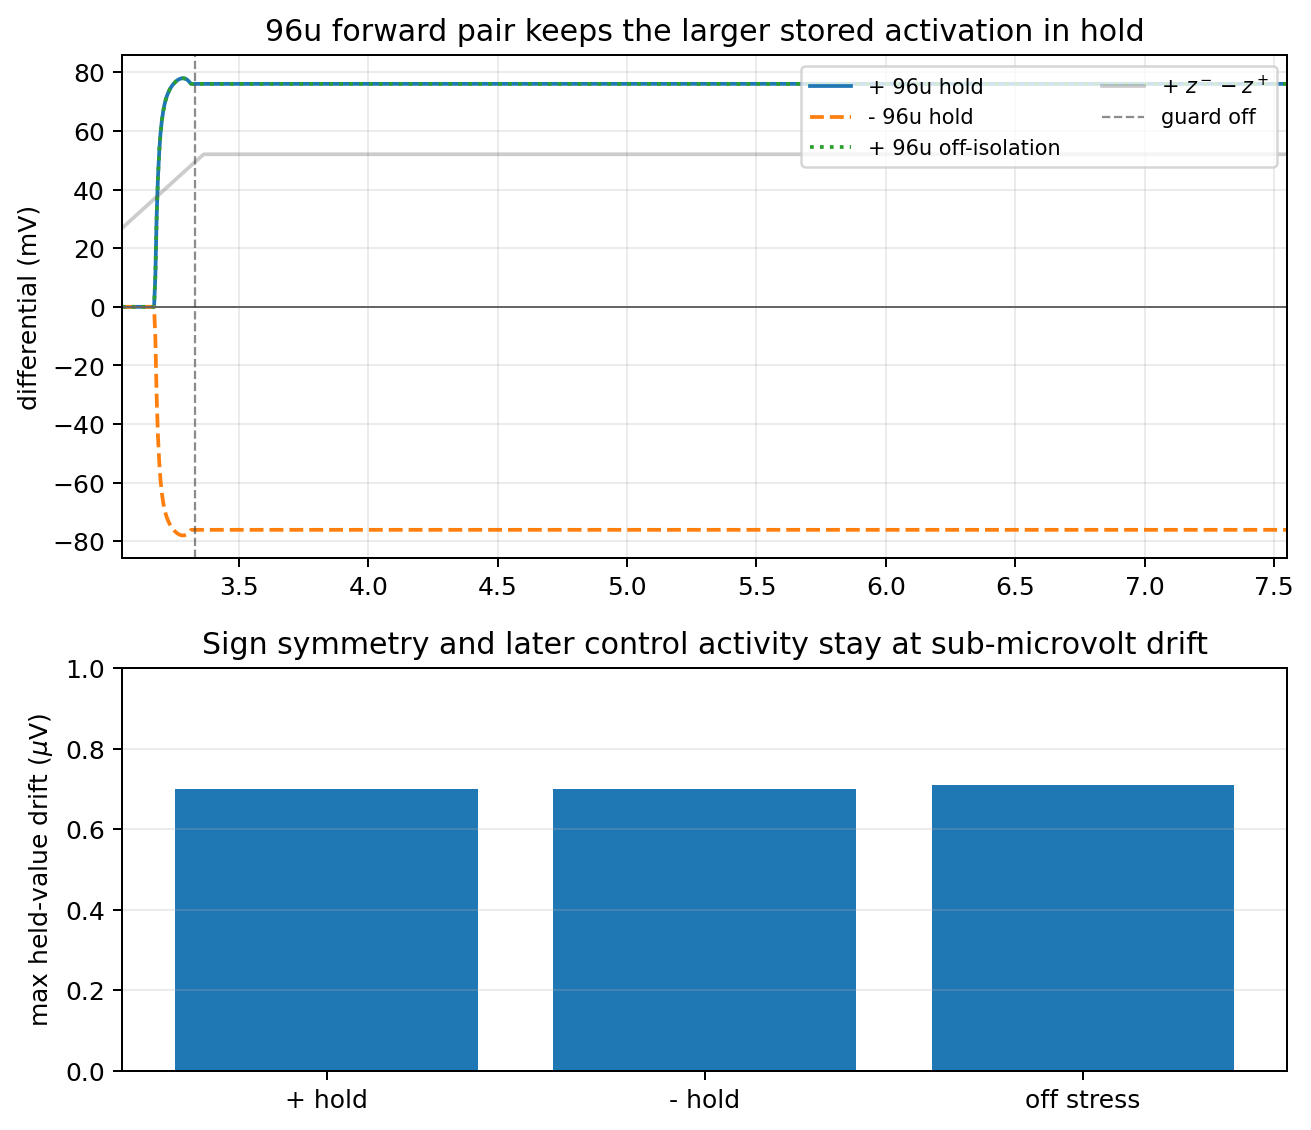
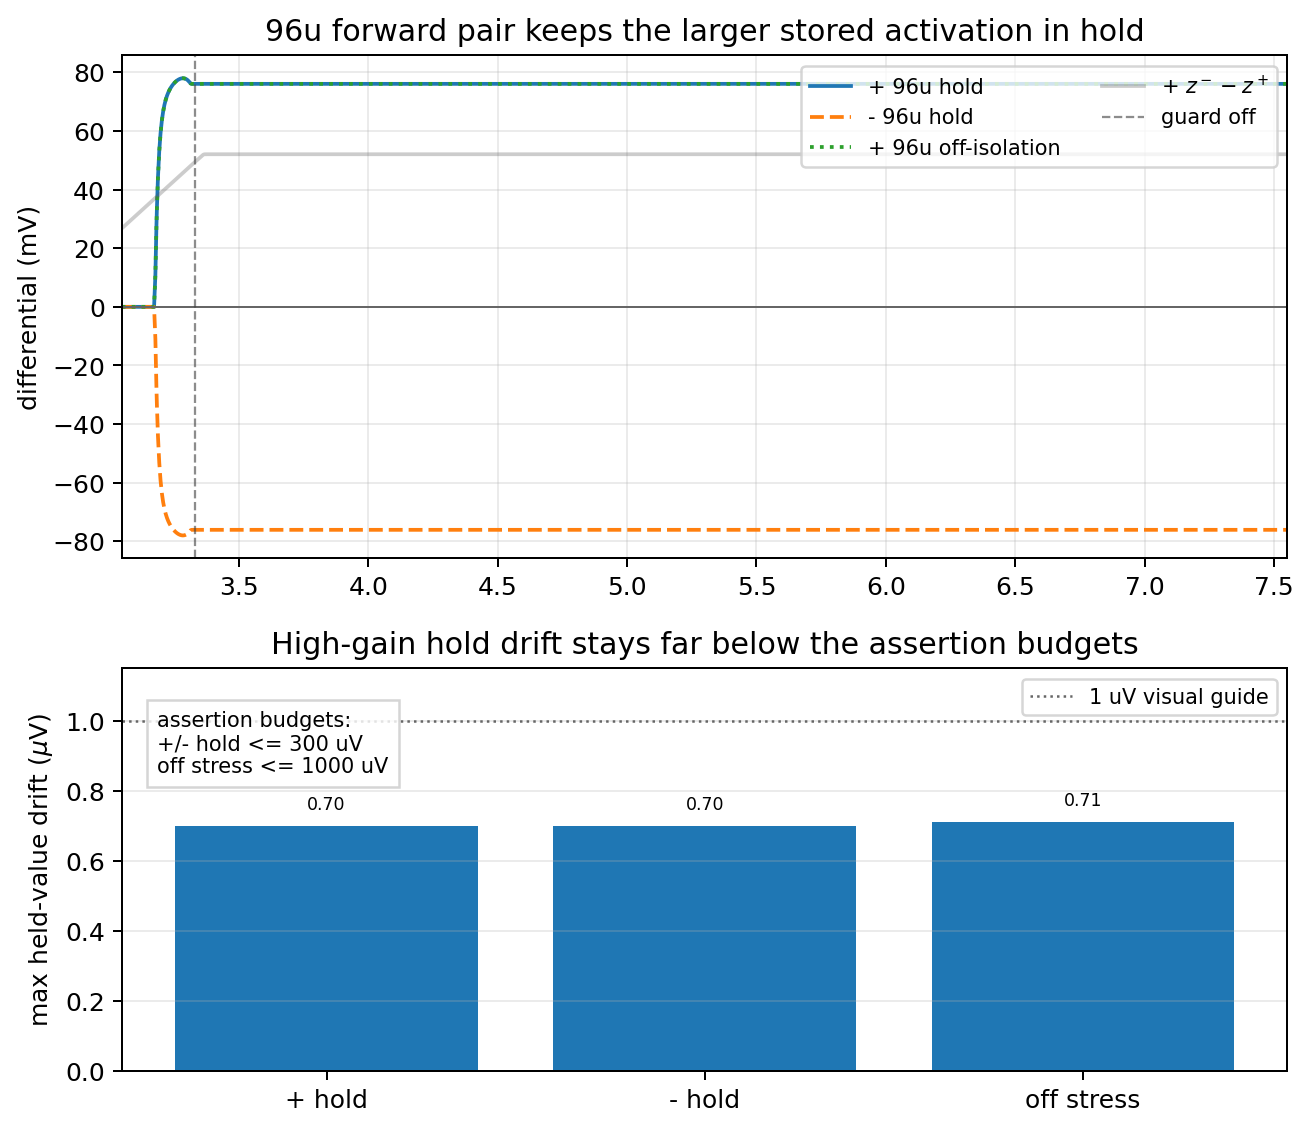
Annotate high gain hold budgets

diff --git a/spice/run_mos_cell_characterization.py b/spice/run_mos_cell_characterization.py
@@ -13257,14 +13257,36 @@ quit
             np.max(np.abs(high_gain_guard_off_drift)),
         ]
     )
+    high_gain_drift_budgets = np.array([0.0003, 0.0003, 0.0010])
     high_gain_x = np.arange(len(high_gain_drift_labels))
     high_gain_axes[1].bar(high_gain_x, 1e6 * high_gain_drift_values)
+    high_gain_axes[1].axhline(1.0, color="0.4", linestyle=":", linewidth=1.0, label="1 uV visual guide")
+    for x, drift in zip(high_gain_x, high_gain_drift_values):
+        high_gain_axes[1].text(
+            x,
+            1e6 * drift + 0.035,
+            f"{1e6 * drift:.2f}",
+            ha="center",
+            va="bottom",
+            fontsize="x-small",
+        )
+    high_gain_axes[1].text(
+        0.03,
+        0.74,
+        "assertion budgets:\n"
+        f"+/- hold <= {1e6 * high_gain_drift_budgets[0]:.0f} uV\n"
+        f"off stress <= {1e6 * high_gain_drift_budgets[2]:.0f} uV",
+        transform=high_gain_axes[1].transAxes,
+        fontsize="small",
+        bbox={"facecolor": "white", "alpha": 0.82, "edgecolor": "0.8"},
+    )
     high_gain_axes[1].set_xticks(high_gain_x)
     high_gain_axes[1].set_xticklabels(high_gain_drift_labels)
     high_gain_axes[1].set_ylabel("max held-value drift ($\\mu$V)")
-    high_gain_axes[1].set_ylim(0.0, max(1.0, 1.25 * 1e6 * float(np.max(high_gain_drift_values))))
-    high_gain_axes[1].set_title("Sign symmetry and later control activity stay at sub-microvolt drift")
+    high_gain_axes[1].set_ylim(0.0, max(1.15, 1.35 * 1e6 * float(np.max(high_gain_drift_values))))
+    high_gain_axes[1].set_title("High-gain hold drift stays far below the assertion budgets")
     high_gain_axes[1].grid(True, axis="y", alpha=0.25)
+    high_gain_axes[1].legend(loc="upper right", fontsize="small")
     high_gain_fig.tight_layout()
     save_plot(high_gain_fig, "mos_hidden_writer_restored_gate_hybrid_update_forward_guard_forward_pair_96u_robustness_ngspice")
 

diff --git a/engineering_log.md b/engineering_log.md
@@ -2,6 +2,13 @@
 
 ## 2026-05-25
 
+- Clarified the 96u high-gain guarded-hold robustness drift plot.  The ngspice
+  assertions allow \(300\,\mu\)V drift for the positive and negative hold
+  fixtures and \(1000\,\mu\)V for later off-state stress, while the measured
+  drifts are only about \(0.70/0.70/0.71\,\mu\)V.  The regenerated
+  `mos_hidden_writer_restored_gate_hybrid_update_forward_guard_forward_pair_96u_robustness_ngspice`
+  plot now labels those measured bar values, draws a \(1\,\mu\)V visual guide,
+  and prints the much larger assertion budgets directly on the plot.
 - Family-completed the guarded hold drift display for the positive hold and
   off-isolation cases.  The `guard_hold` assertion budget is \(200\,\mu\)V and
   the `guard_off_isolation` budget is \(500\,\mu\)V, but the rendered plots
